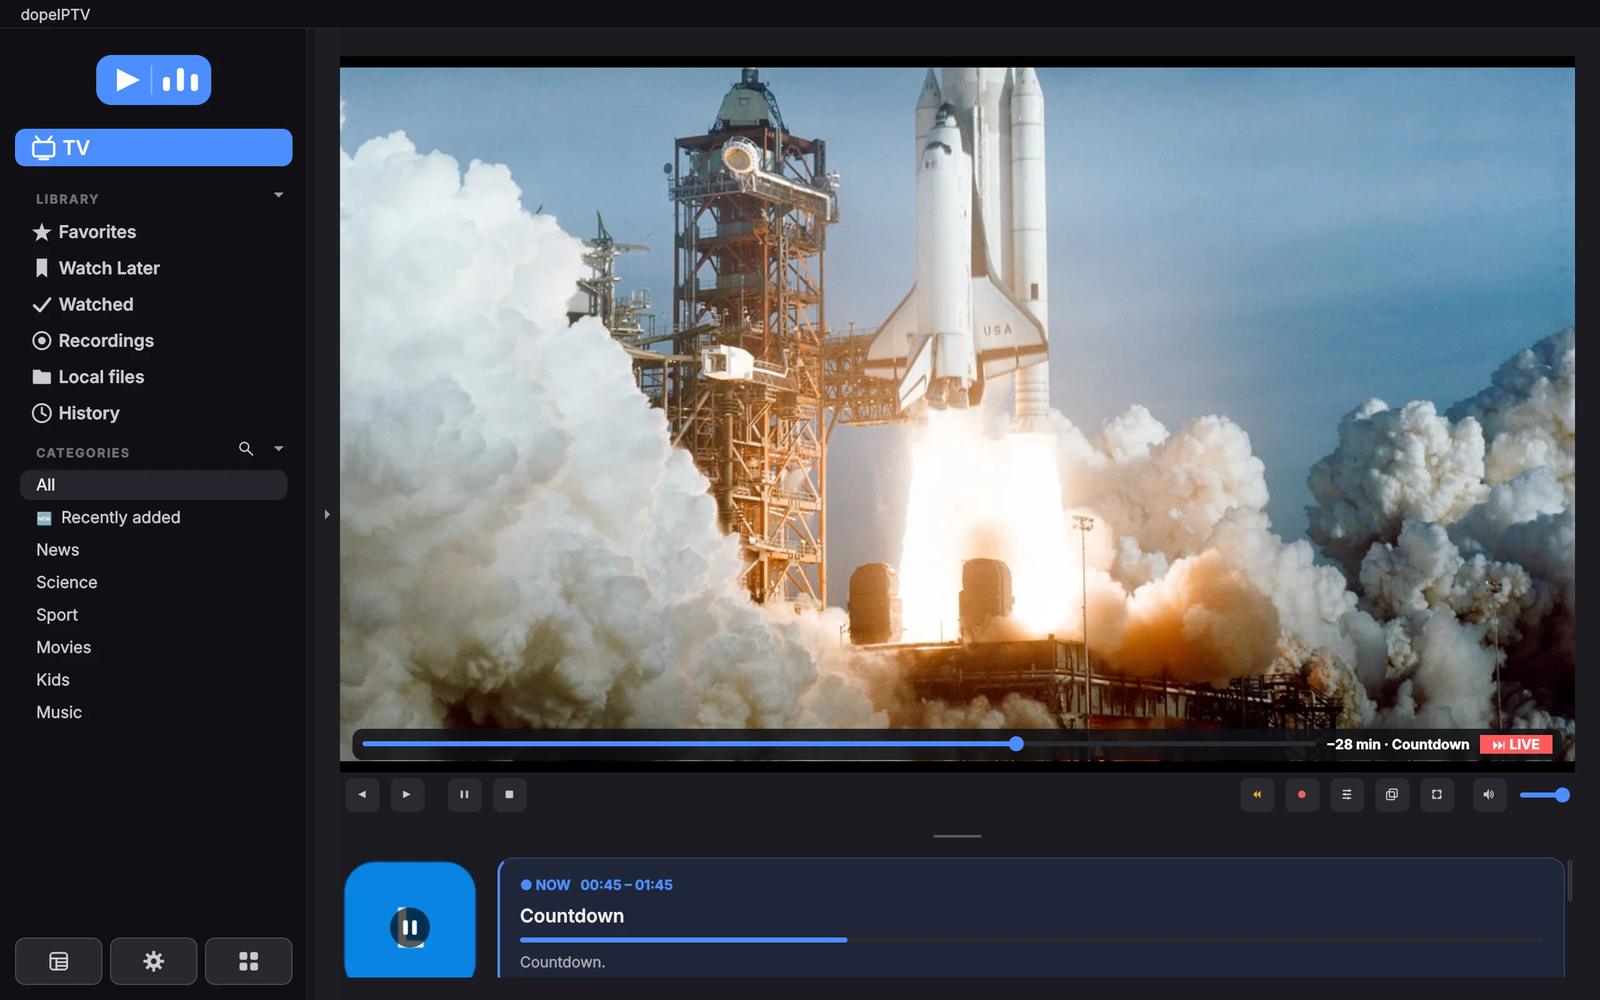
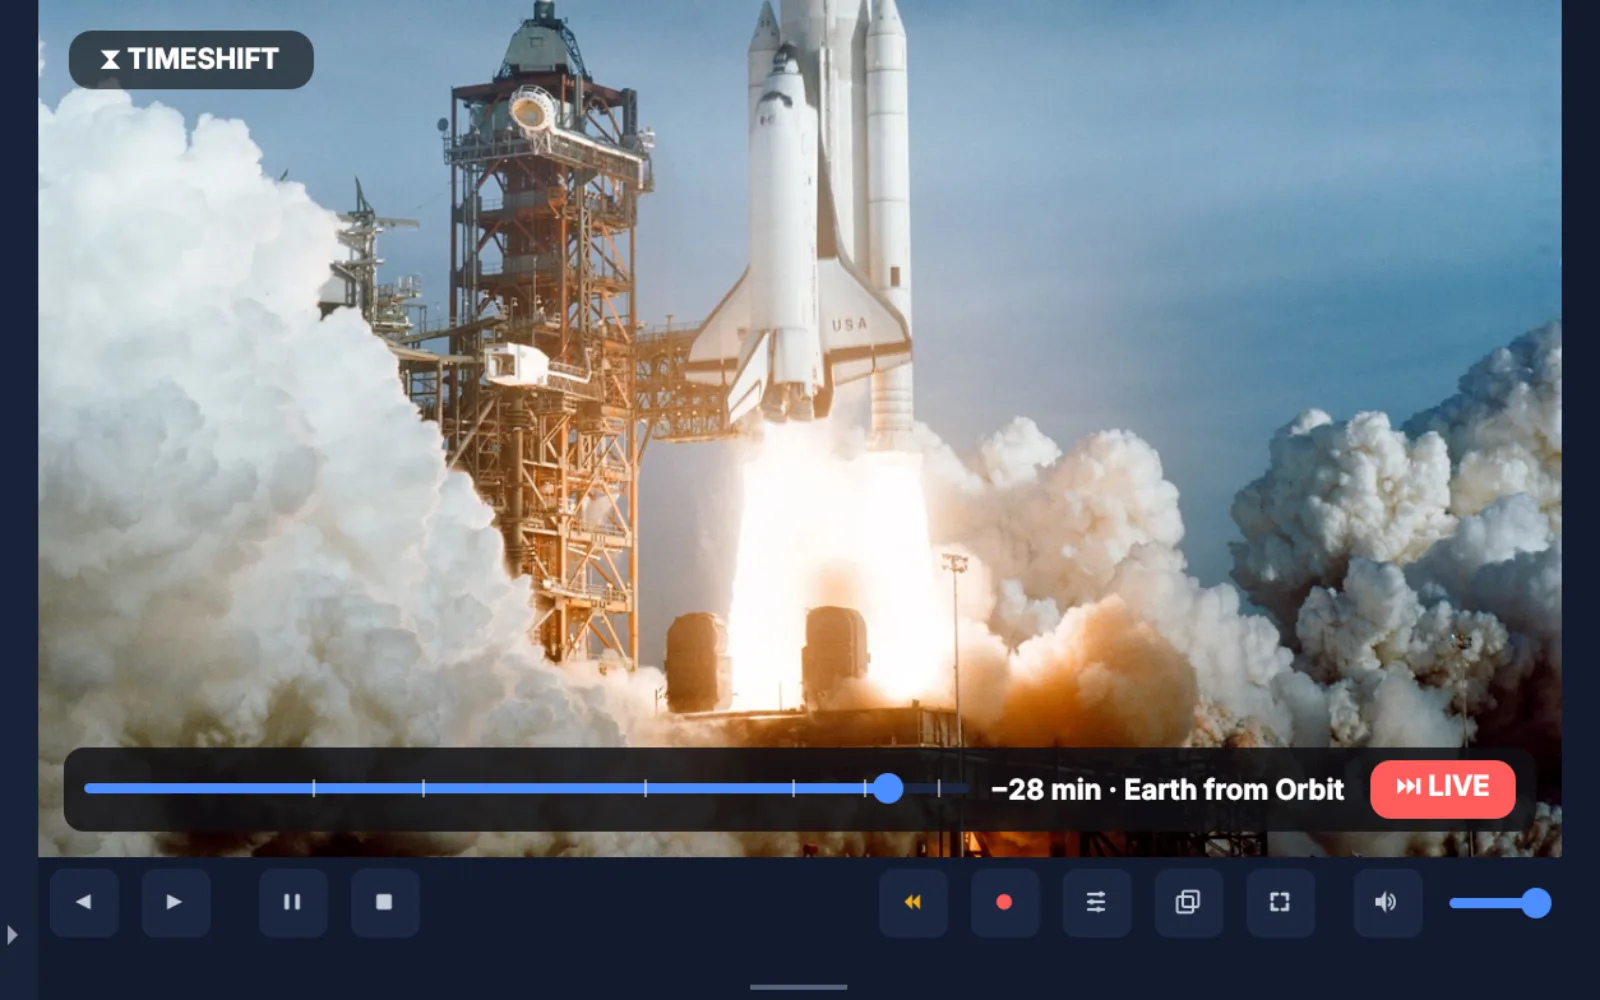
README screenshots from the 1.6.3 site pictures
The four pictures the README and the metainfo show, made again from the
website's English front-page pictures (tools/site_screenshots.py): the TV
place playing (hero-1), the guide in a light theme (feat-c3), multiview
(feat-mv) and rewinding a live channel (feat-c1). The file names stay:
every release's metainfo points at them on main.

Claude-Session: https://claude.ai/code/session_01Pa1PFo7EpSA5A3brHTPmEs

diff --git a/docs/screenshots/README.md b/docs/screenshots/README.md
@@ -15,8 +15,8 @@ point at them:
 All but `themes.png` are the website's English front-page pictures, made by
 `tools/site_screenshots.py` (see `docs/MAINTAINING.md`): take them with
 `xvfb-run -a -s "-screen 0 2560x1600x24" python tools/site_screenshots.py OUT en`,
-then save `main`, `guide`, `multiview` and `timeshift` from WebP
-as 1600×1000 PNG under the names above. The file names stay as they are:
+then save `hero-1`, `feat-c3`, `feat-mv` and `feat-c1` from WebP
+as 1600×1000 PNG under the names above (`hero-1` scaled down from 2560×1600). The file names stay as they are:
 the metainfo of every release already out points at them on `main`.
 
 ## Getting content for free (no personal provider needed)
